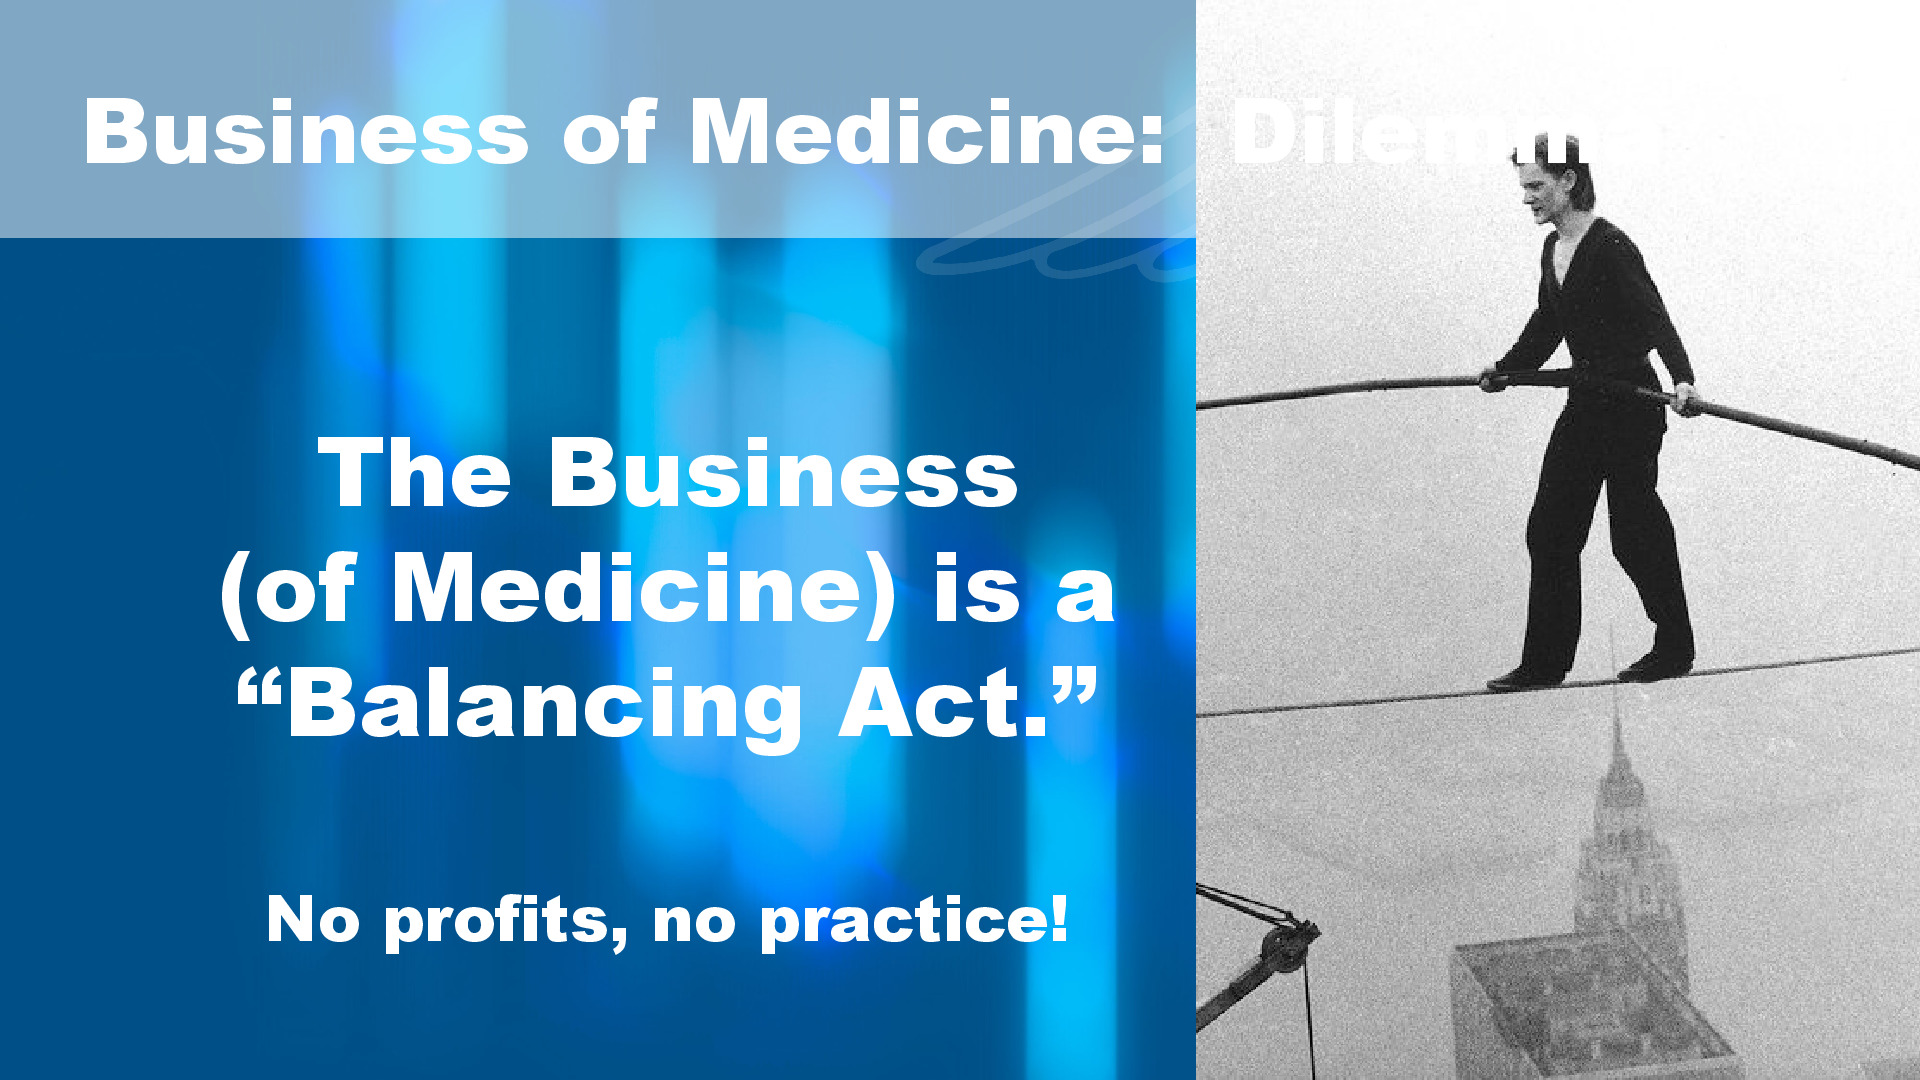
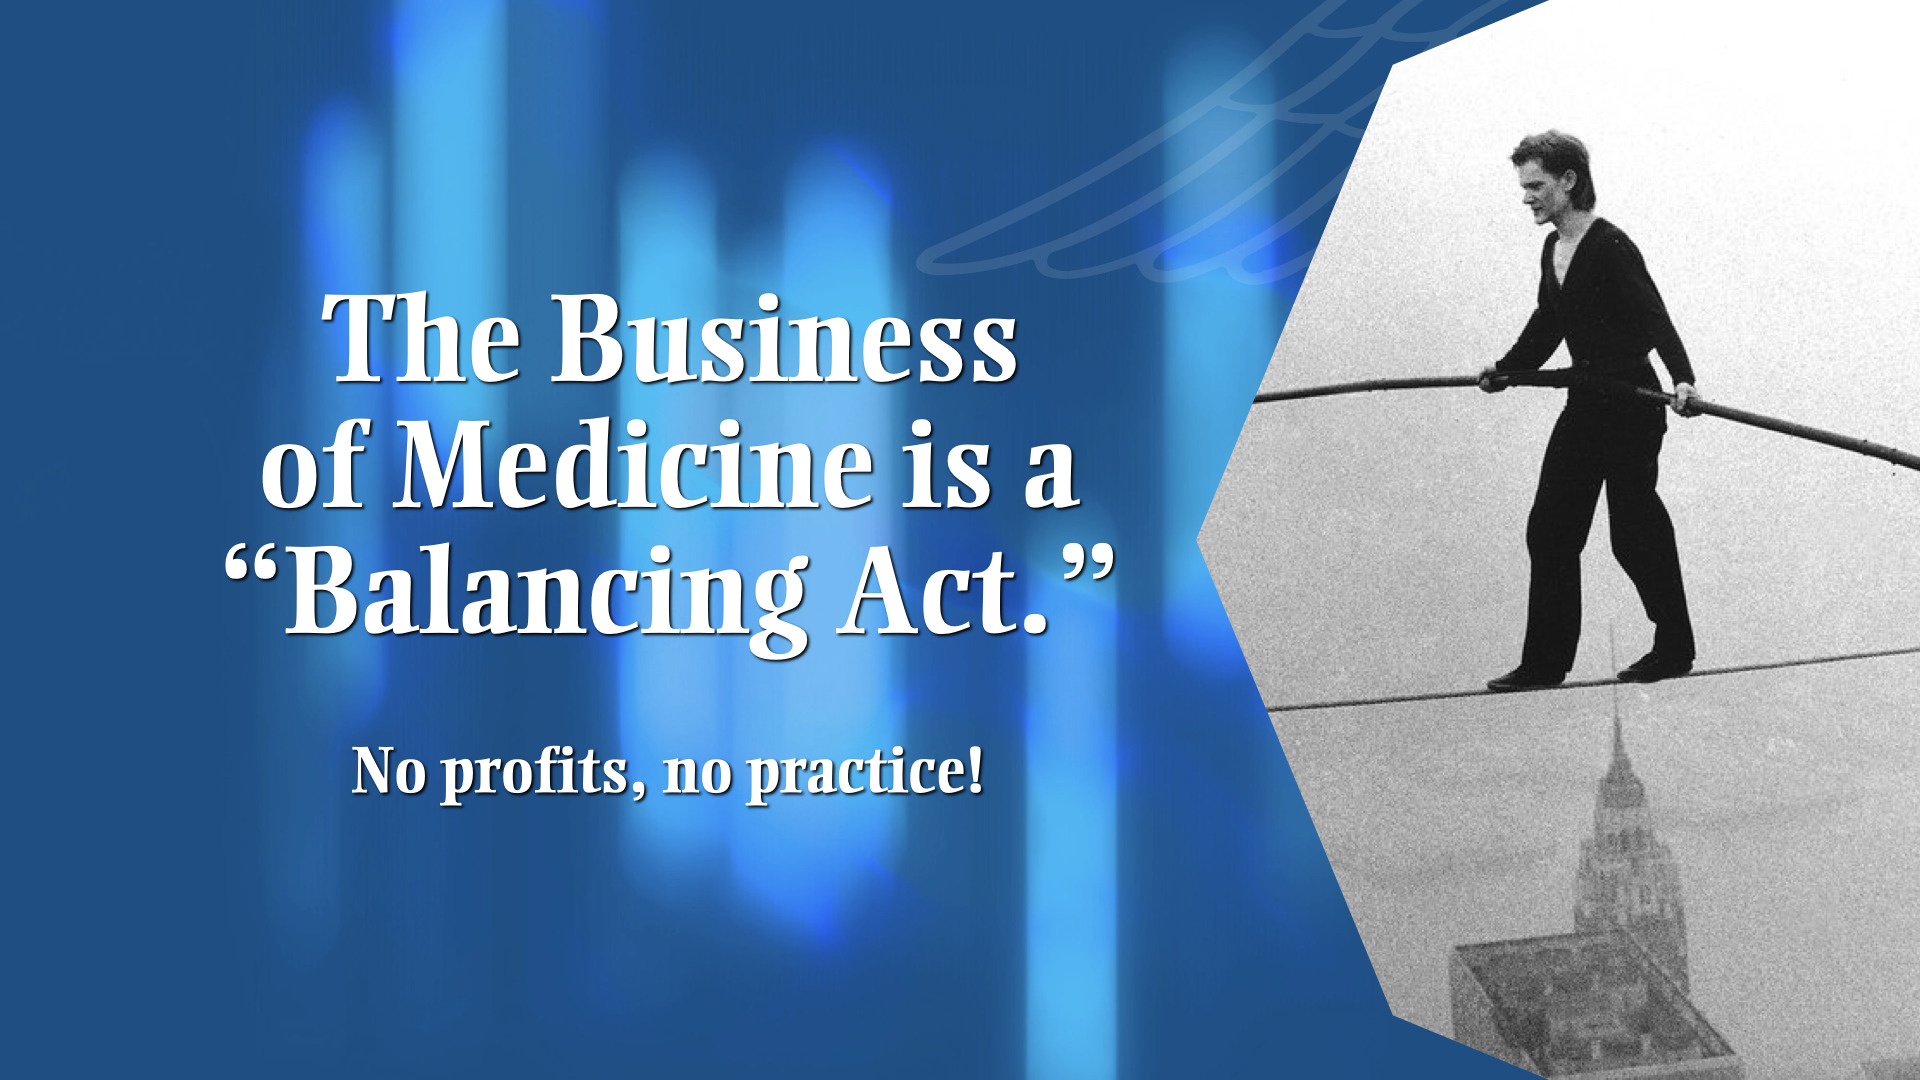
Lots of improved graphics\!

diff --git a/scripts/dropbox_download.py b/scripts/dropbox_download.py
@@ -4,6 +4,7 @@ import argparse
 from datetime import datetime
 from pathlib import Path
 import shlex
+import shutil
 import subprocess
 
 import dropbox
@@ -60,10 +61,12 @@ def ppt_to_jpg(path):
 
 def img_to_jpg(path):
     p = Path(path)
-    if (p.suffix != '.jpg'):  # convert to jpg
-        img_dir = SLIDE_IMG_DIR / p.parent.stem
-        if (not img_dir.exists()):
-            img_dir.mkdir(parents = True)
+    img_dir = SLIDE_IMG_DIR / p.parent.stem
+    if (not img_dir.exists()):
+        img_dir.mkdir(parents = True)
+    if (p.suffix == '.jpg'):  # just move to dest
+        shutil.copy(p, img_dir / p.name)
+    else:  # convert to jpg
         run(['convert', p, (img_dir / p.name).with_suffix('.jpg')])
 
 

diff --git a/scripts/resize_banner_slides.py b/scripts/resize_banner_slides.py
@@ -1,0 +1,15 @@
+#!/usr/bin/env python3
+
+from pathlib import Path
+import subprocess
+
+if __name__ == '__main__':
+
+    p1 = Path('/Users/jeremander/Dropbox/Silver Solutions/Images/banners')
[1 lines of base64/hex data omitted]
+
+    for src in p1.glob('*.jpg'):
+        dest = p2 / src.name
+        cmd = ['convert', '-strip', '-interlace', 'Plane', '-gaussian-blur', '0.05', '-resize', '33%', '-quality', '80%', str(src.resolve()), str(dest.resolve())]
+        print(' '.join(cmd))
+        subprocess.run(cmd)
